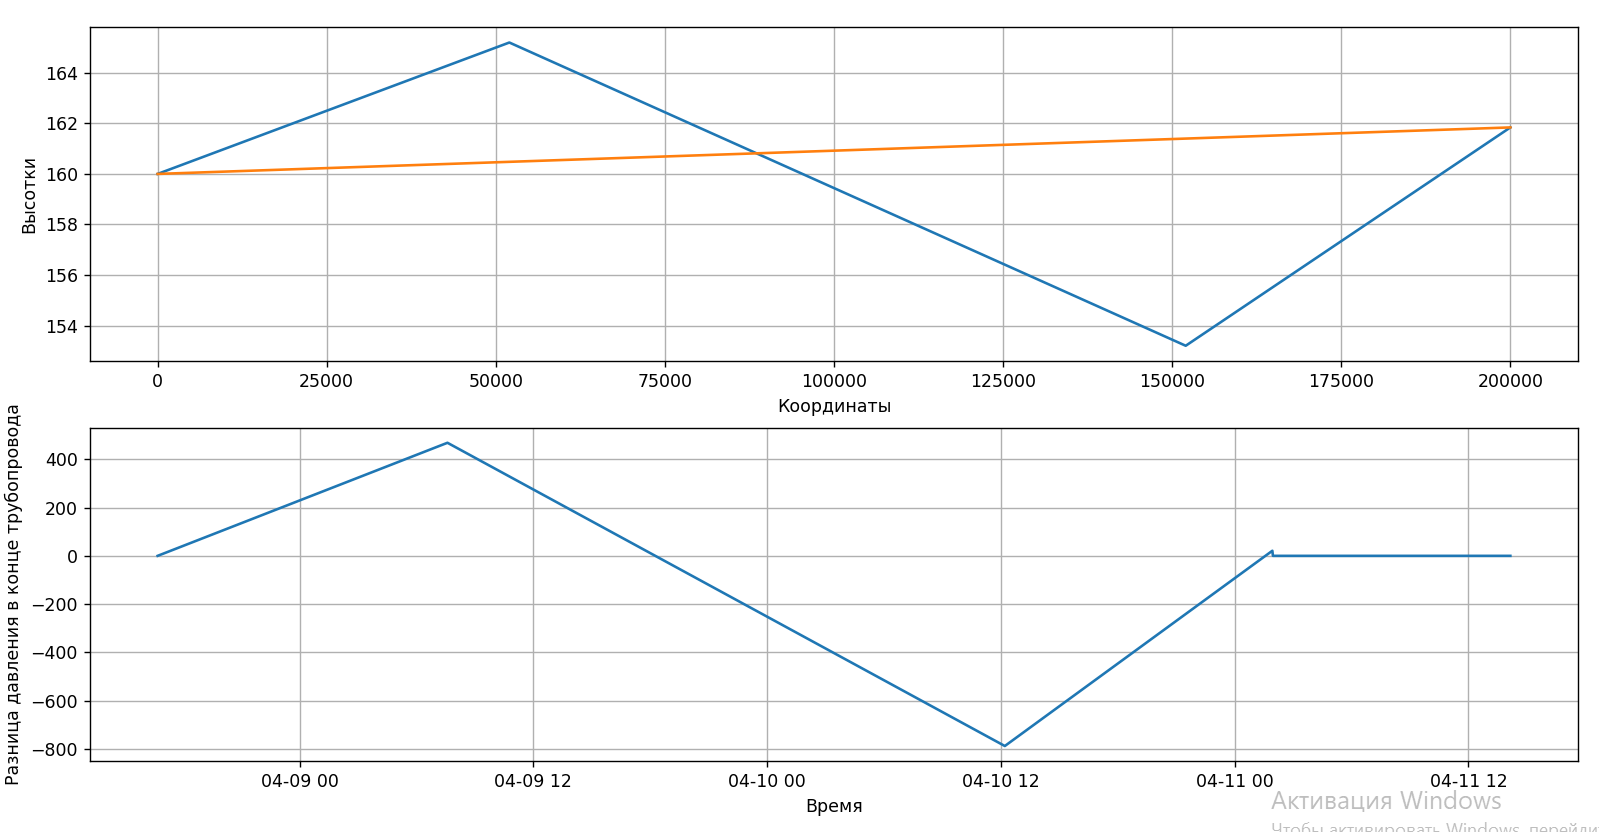
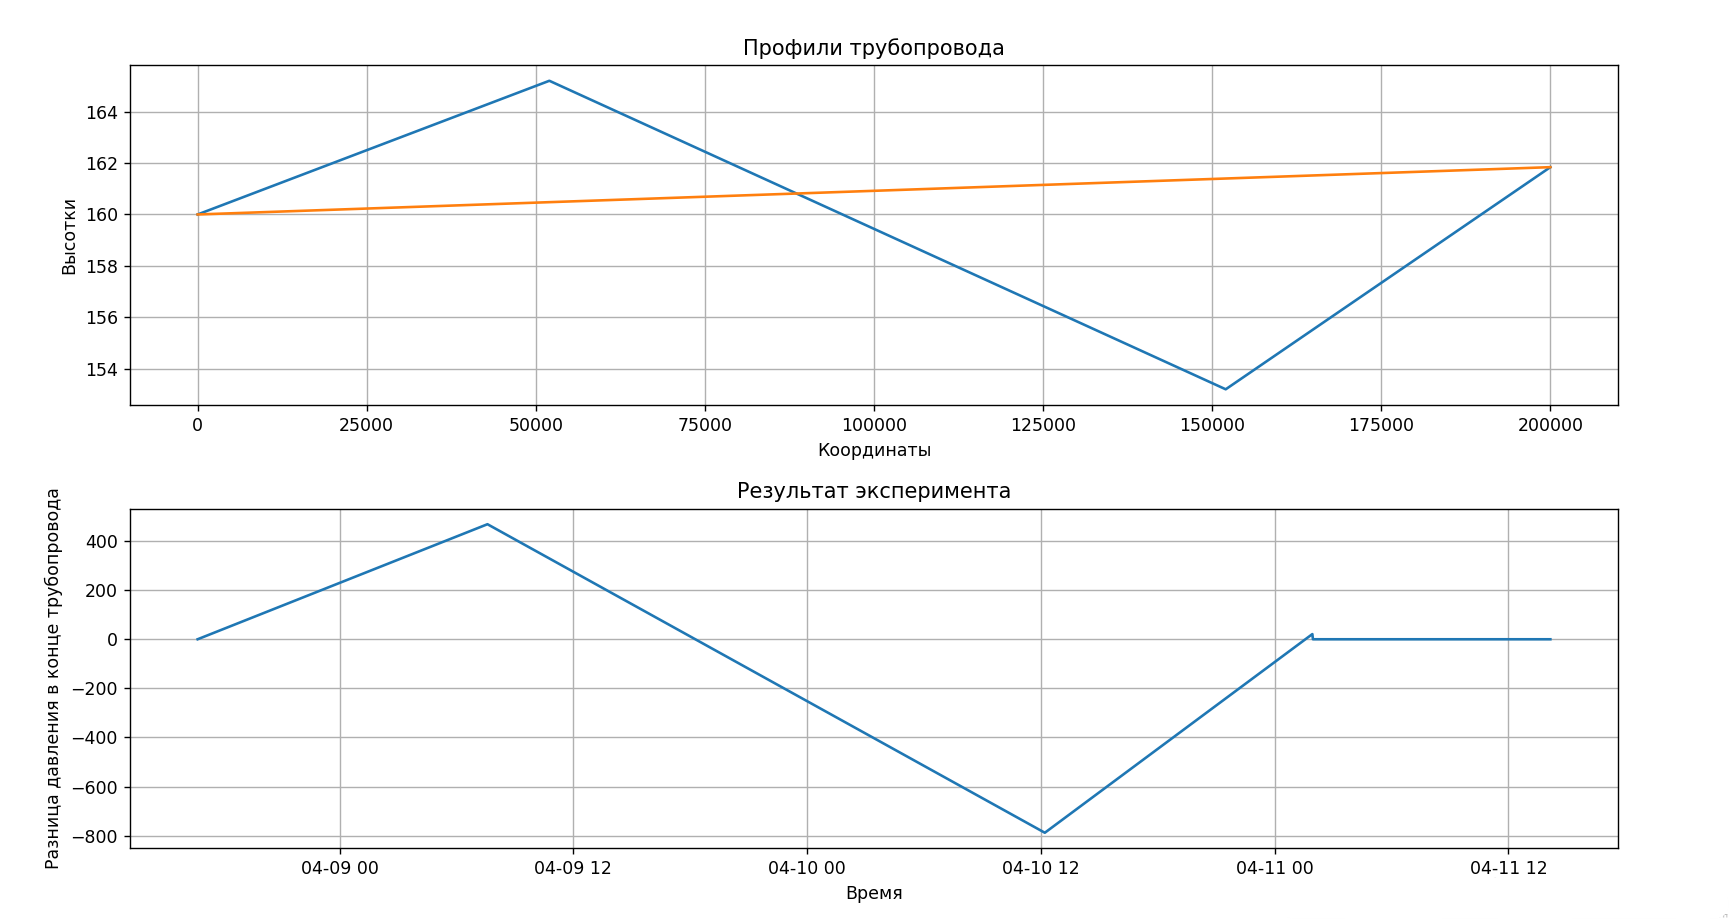
fix

diff --git a/research/2024-02-quick-with-quasistationary-model/profile_impact.py b/research/2024-02-quick-with-quasistationary-model/profile_impact.py
@@ -54,4 +54,6 @@ if __name__ == '__main__':
     axes = [plt.subplot(plotsCount, 1, _ + 1) for _ in range(plotsCount)]
     plot_coordinates_heights(axes[0])   
     plot_diff_press_at_the_end(axes[1])
+    axes[0].set_title('Профили трубопровода')
+    axes[1].set_title('Результат эксперимента')
     plt.show()    
